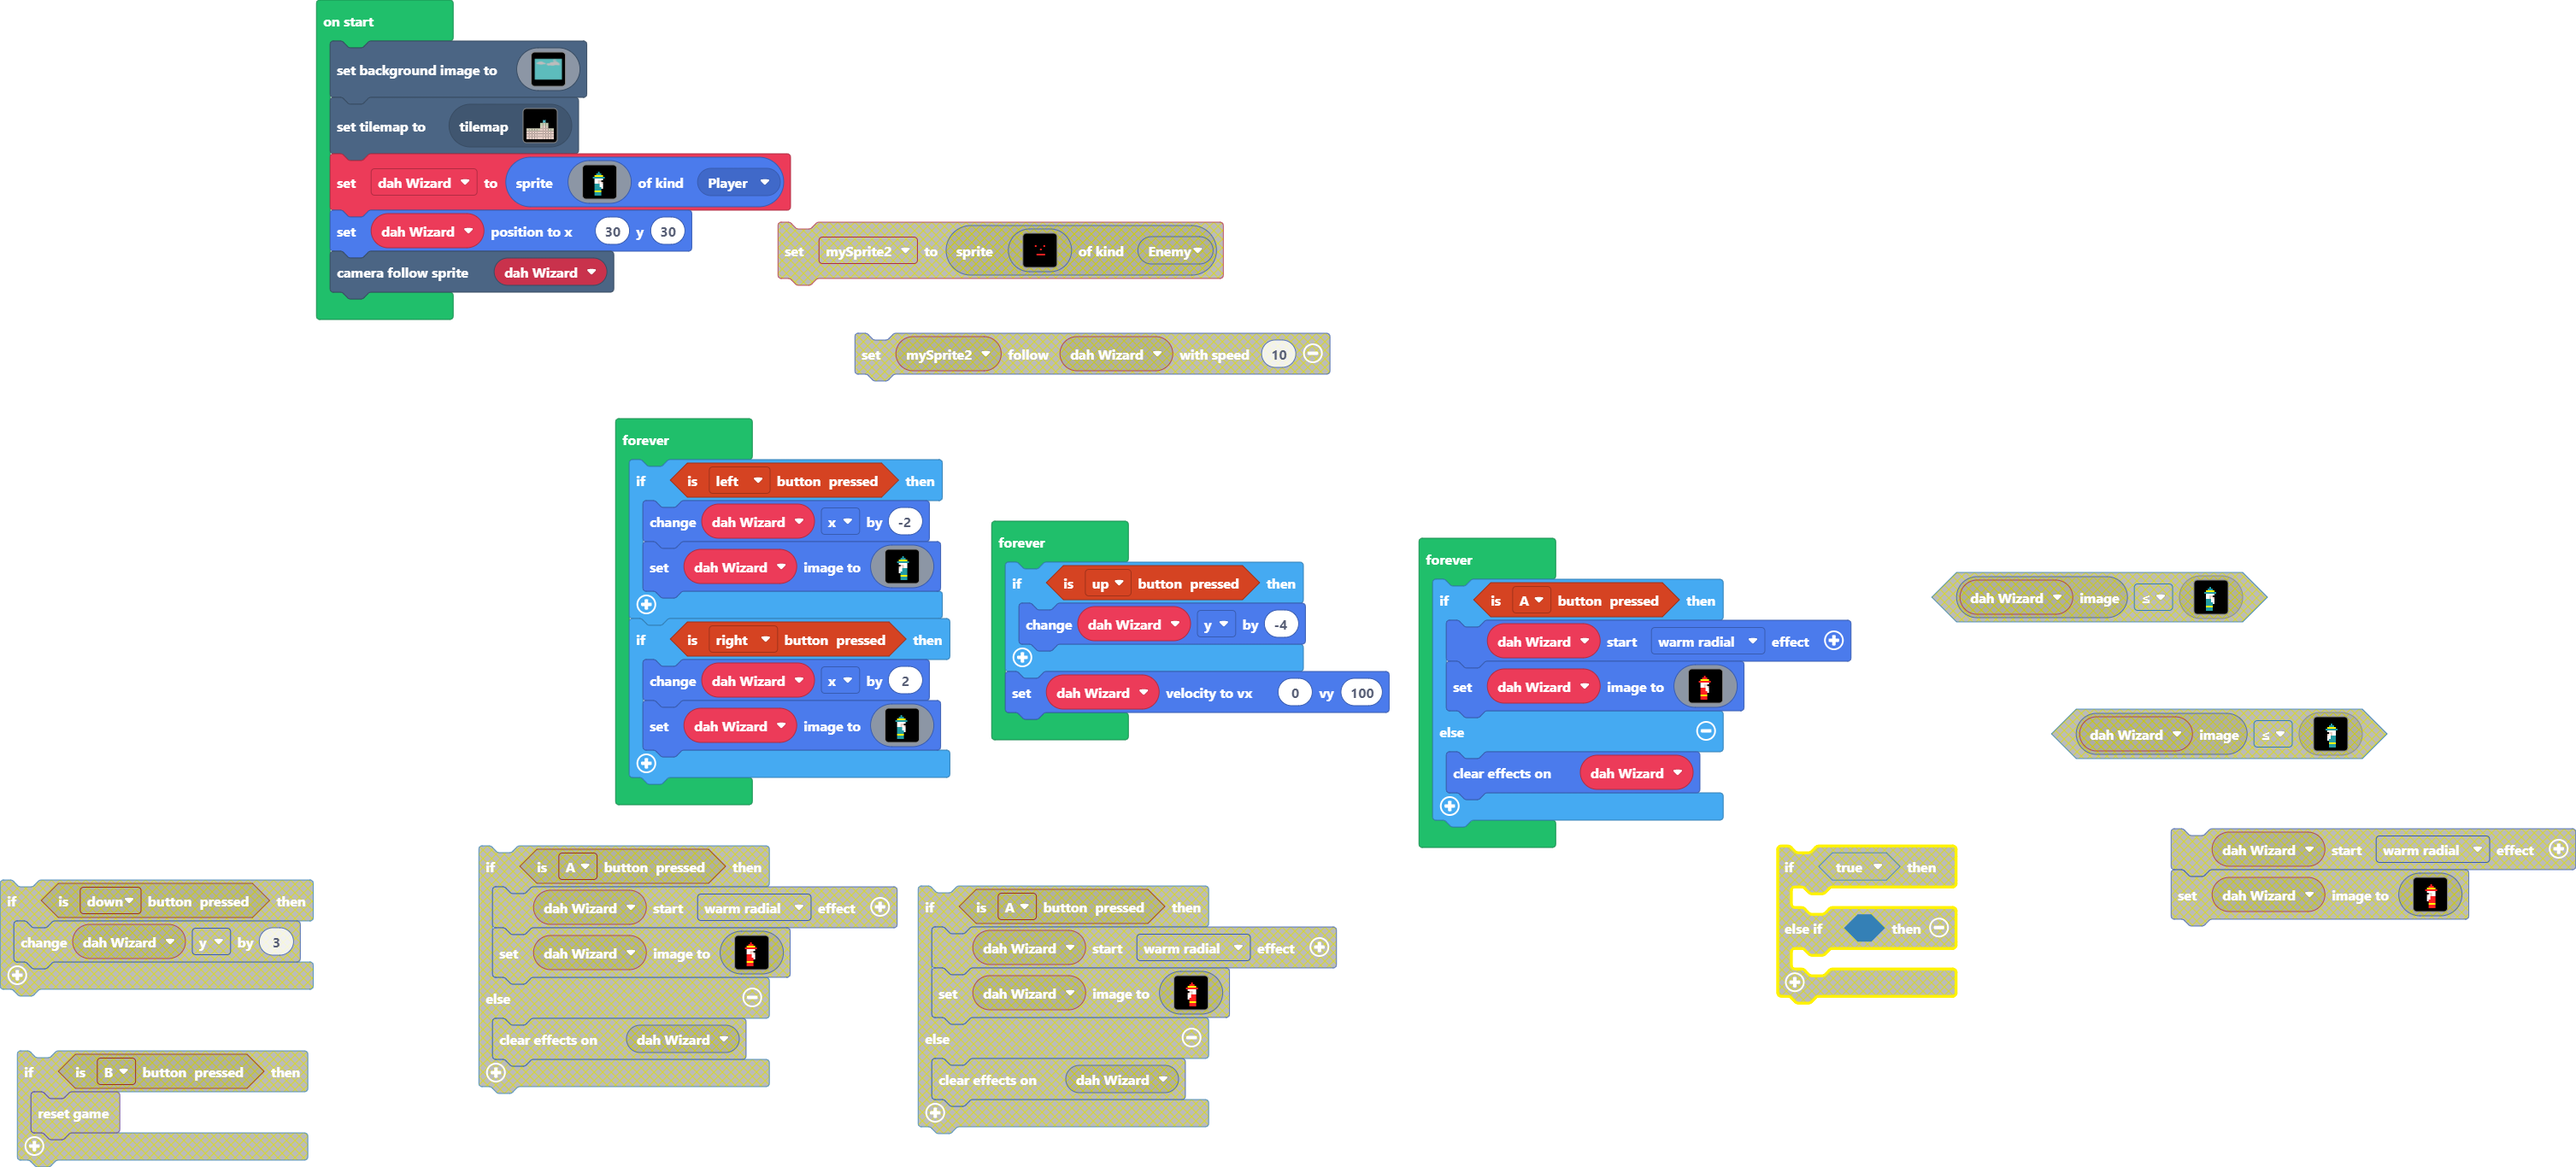
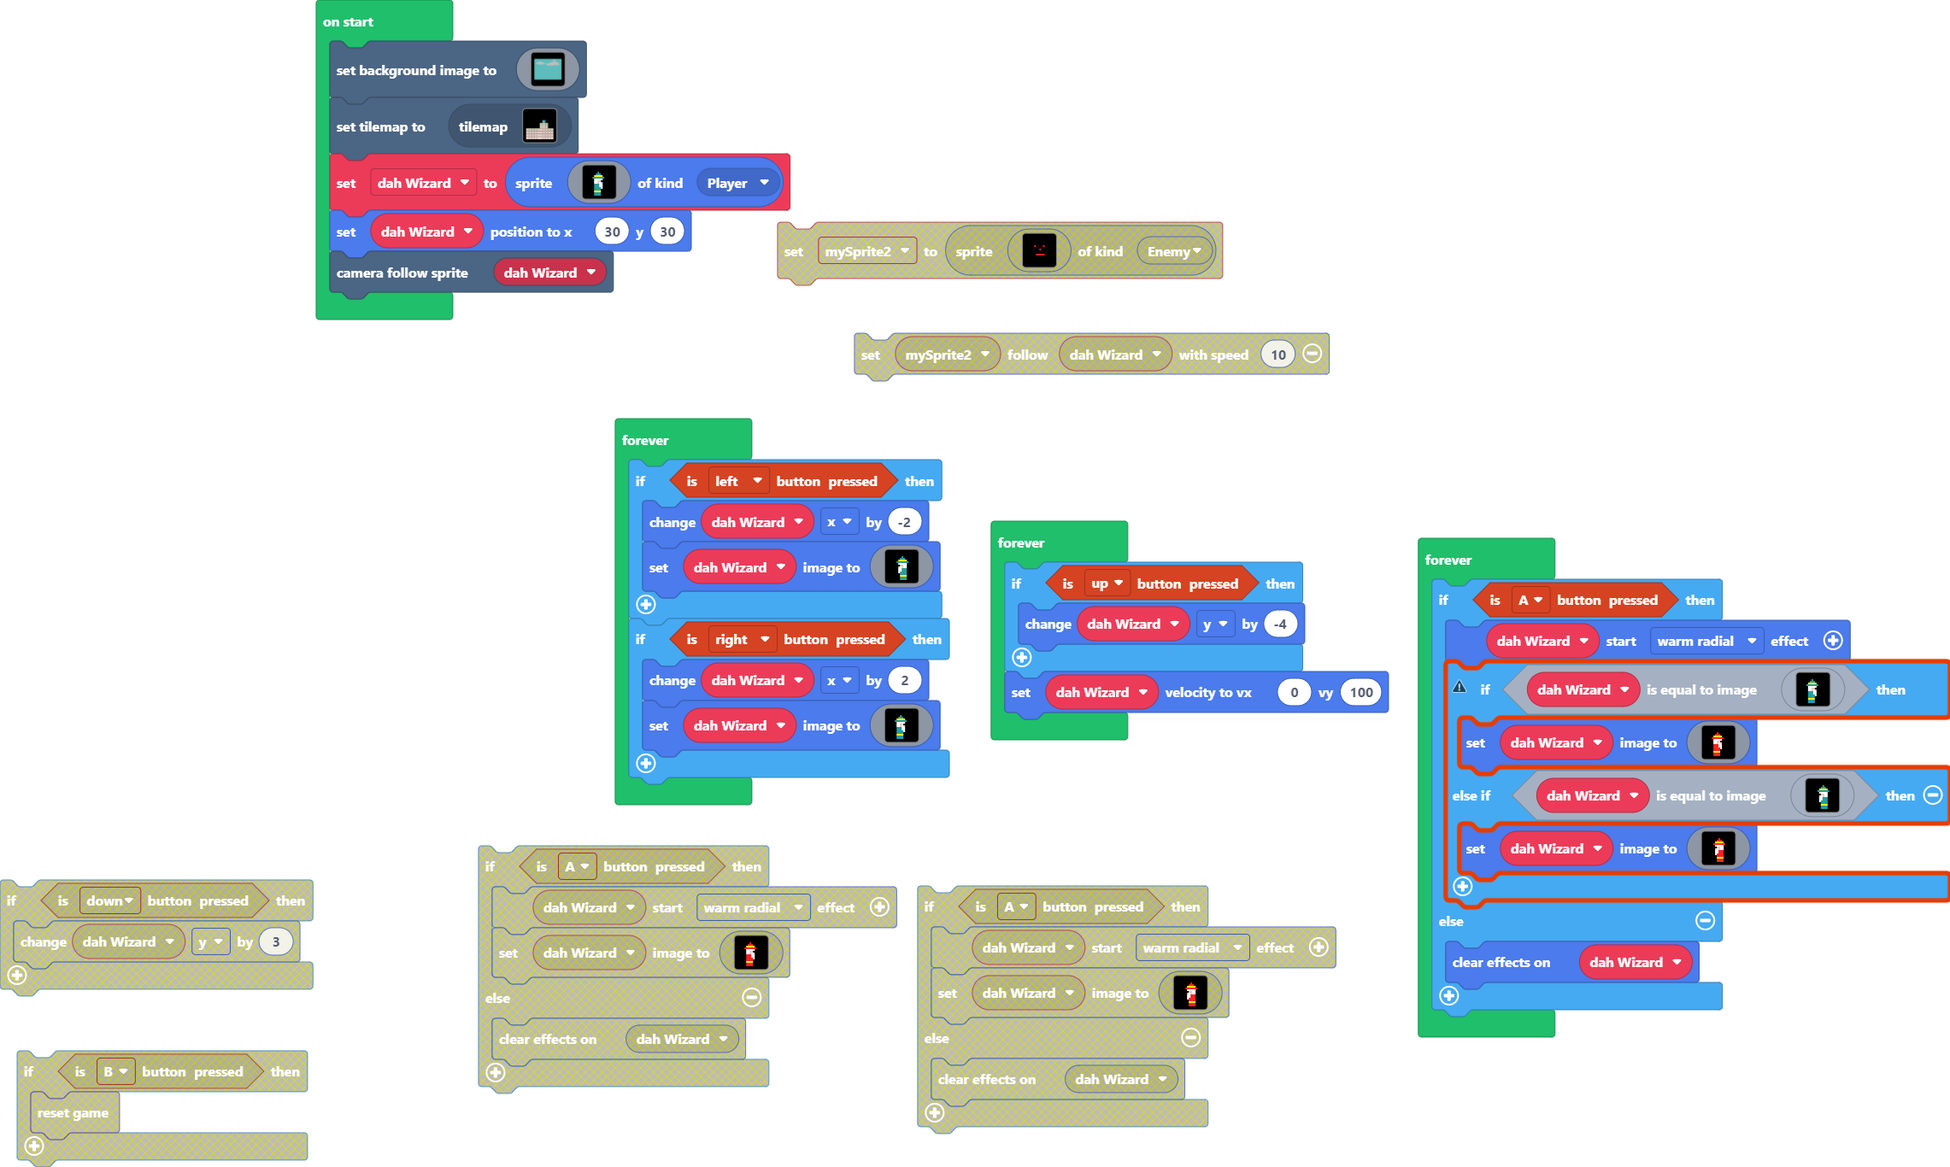
Update main.blocks, main.ts, images.g.jres, images.g.ts

diff --git a/main.ts b/main.ts
@@ -22,7 +22,11 @@ forever(function () {
 forever(function () {
     if (controller.A.isPressed()) {
         dah_Wizard.startEffect(effects.warmRadial)
-        dah_Wizard.setImage(assets.image`dah Wizard but red0`)
+        if (dah_Wizard.equals(assets.image`dah Wizard`)) {
+            dah_Wizard.setImage(assets.image`dah Wizard but red`)
+        } else if (dah_Wizard.equals(assets.image`dah Wizard but left`)) {
+            dah_Wizard.setImage(assets.image`dah Wizard but red but left`)
+        }
     } else {
         effects.clearParticles(dah_Wizard)
     }

diff --git a/images.g.ts b/images.g.ts
@@ -203,7 +203,7 @@ namespace myImages {
 . . . . . . . 2 2 2 2 . . . . . 
 `;
             case "image5":
-            case "dah Wizard but red0":return img`
+            case "dah Wizard but red":return img`
 . . . . . . . . . . . . . . . . 
 . . . . . . . . . . . . . . . . 
 . . . . . . . 2 . . . . . . . . 
